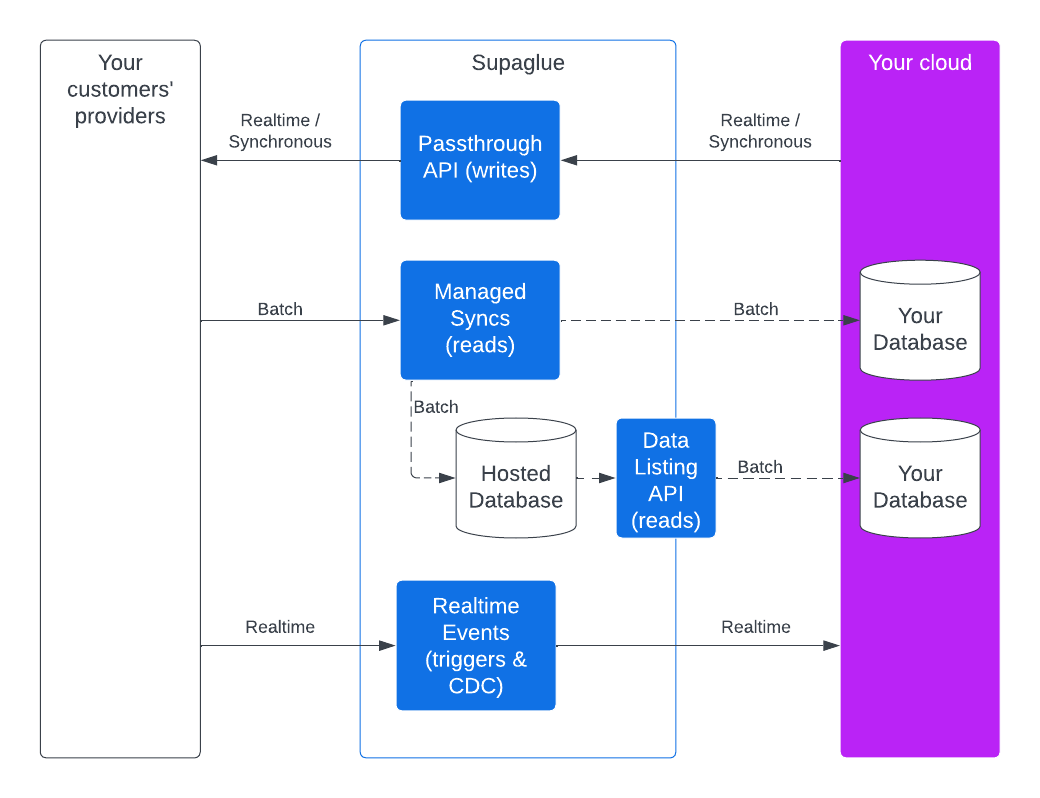
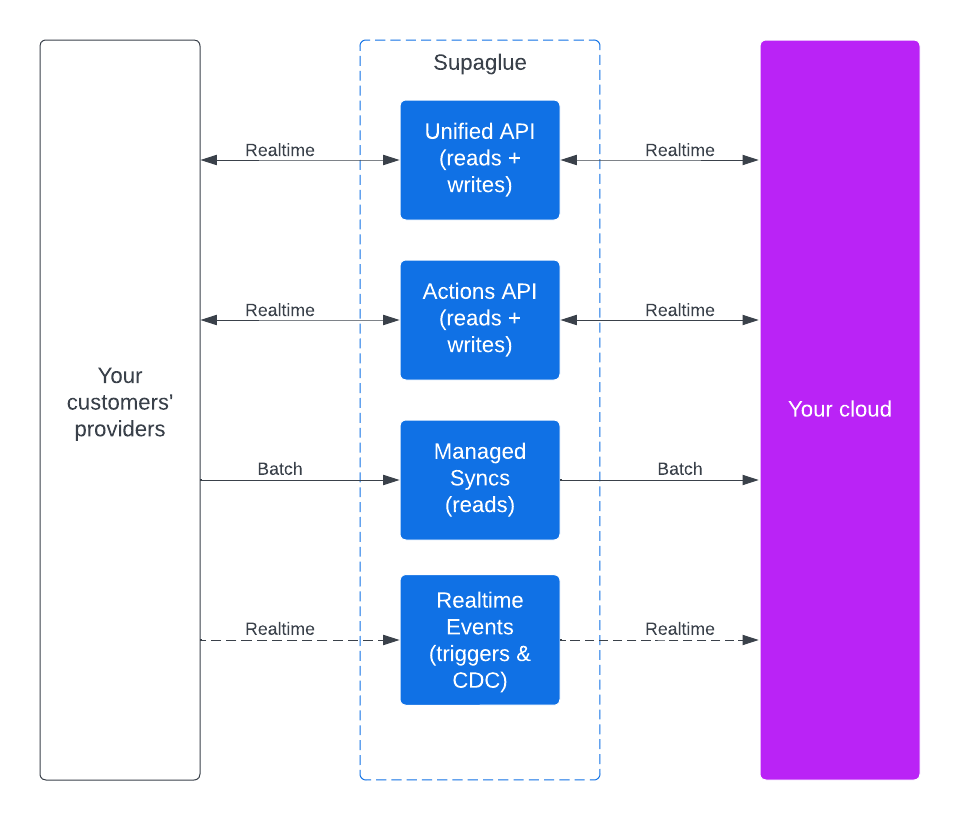
docs: integration patterns pass (#1497)
## Test Plan

[Describe test plan here]

## Deployment instructions

[Add any special deployment instructions here]

Changed region(s): [[0.0312, 0.0301, 0.9688, 0.9624], [0.25, 0.5414, 0.3125, 0.6015]]

diff --git a/docs/sidebars.js b/docs/sidebars.js
@@ -70,17 +70,22 @@ const sidebars = {
     },
     {
       id: 'integration-patterns/managed-syncs',
-      label: 'Syncing data',
+      label: 'Managed Syncs',
+      type: 'doc',
+    },
+    {
+      id: 'integration-patterns/unified-api',
+      label: 'Unified API',
       type: 'doc',
     },
     {
       id: 'integration-patterns/actions-api',
-      label: 'Writing data',
+      label: 'Actions API',
       type: 'doc',
     },
     {
       id: 'integration-patterns/real-time-events',
-      label: 'Triggers/CDC',
+      label: 'Real-time Events',
       type: 'doc',
     },
 
@@ -319,9 +324,15 @@ const sidebars = {
       value: sidebarHeader('Actions API'),
     },
     { type: 'doc', id: 'api/v2/actions/actions-api' },
+
+    // section
+    {
+      type: 'html',
+      value: sidebarHeader('Data Listing API'),
+    },
     {
       type: 'category',
-      label: 'Data listing',
+      label: 'Data API',
       // eslint-disable-next-line @typescript-eslint/ban-ts-comment
       // @ts-ignore
       items: require('./docs/api/v2/data/sidebar.js'),

diff --git a/docs/docs/platform/overview.md b/docs/docs/platform/overview.md
@@ -15,21 +15,17 @@ sources={{
 
 ## Authentication
 
-Underlying everything is **[Managed Authentication](./managed-auth)**. We let your customers authenticate with dozens of Providers using different authentication strategies (OAuth2, API key, access token), securely store the secrets, and maintain the authenticated sessions (refresh and access tokens for OAuth2).
+Underlying everything on the Supaglue platform is **[Managed Authentication](./managed-auth)**. We let your customers authenticate with dozens of Providers using different authentication strategies (OAuth2, API key, access token), securely store the secrets, and maintain the authenticated sessions (refresh and access tokens for OAuth2).
 
 ## Reading & writing data
 
-There are two core access patterns when using Supaglue:
+Once authenticated we provide Managed Syncs for reading data from Providers and syncing it to Destinations. Managed Syncs operate on [Objects](./objects/overview).
 
-1. **Reads:**
-   - [**Managed syncs**](../integration-patterns/managed-syncs) - Supaglue will land raw data in a database. You can choose between your database or a Supaglue-hosted database as a Destination.
-   - [**Data Listing API**](../api/v2/data/data-api) - Paginate through raw third-party data and transform it to your database schema.
-   - **Unified API** - Read from multiple third-party providers with a single API for [`crm`](../api/v2/crm/unified-crm-api, [`engagement`](../api/v2/engagement/unified-engagement-api), or [`enrichment`](../api/v2/enrichment/unified-enrichment-api).
-2. **Writes:**
-   - **Unified API** - Write to multiple third-party providers with a single API for [`crm`](../api/v2/crm/unified-crm-api) and [`engagement`](../api/v2/engagement/unified-engagement-api).
-   - [**Actions API**](../api/v2/actions/actions-api) - Write to provider-scoped APIs that range from CRUD to complex actions.
-   - [**Passthrough API**](../platform/passthrough) - Use the underlying Provider's native API to write data back to their systems.
-3. **Triggers/CDC:** [**Realtime events**](../integration-patterns/real-time-events) - Receive real-time notifications when data changes in your customers' third-party Providers to trigger actions in your application or use it to build a real-time mirror of your third-party Providers' data.
+For reading and writing data, we have the [Actions API](../integration-patterns/actions-api) which are helpful APIs scoped to a single provider and [Unified APIs](../integration-patterns/unified-api) which provide a single API interface across multiple providers.
+
+## Passthrough APIs
+
+The platform features above help accelerate development time for integrations and aim at covering 80% of the most frequently occurring use cases, but they don't cover them all. For the remaining 20%, we expose **[Passthrough APIs](./passthrough)** that allow you to call the underlying Provider's native APIs.
 
 ## Notification webhooks
 
@@ -41,7 +37,3 @@ Your integration can listen for these webhooks to do the following:
 - Transform synced data for your application
 - Cleanup old data after a customer deletes their account or disconnects their integration
 - Backfill data after a customer changes configuration settings
-
-## Passthrough APIs
-
-The platform features above help accelerate development time for integrations and aim at covering 80% of the most frequently occurring use cases, but they don't cover them all. For the remaining 20%, we expose **[Passthrough APIs](./passthrough)** that allow you to call the underlying Provider's native APIs.
